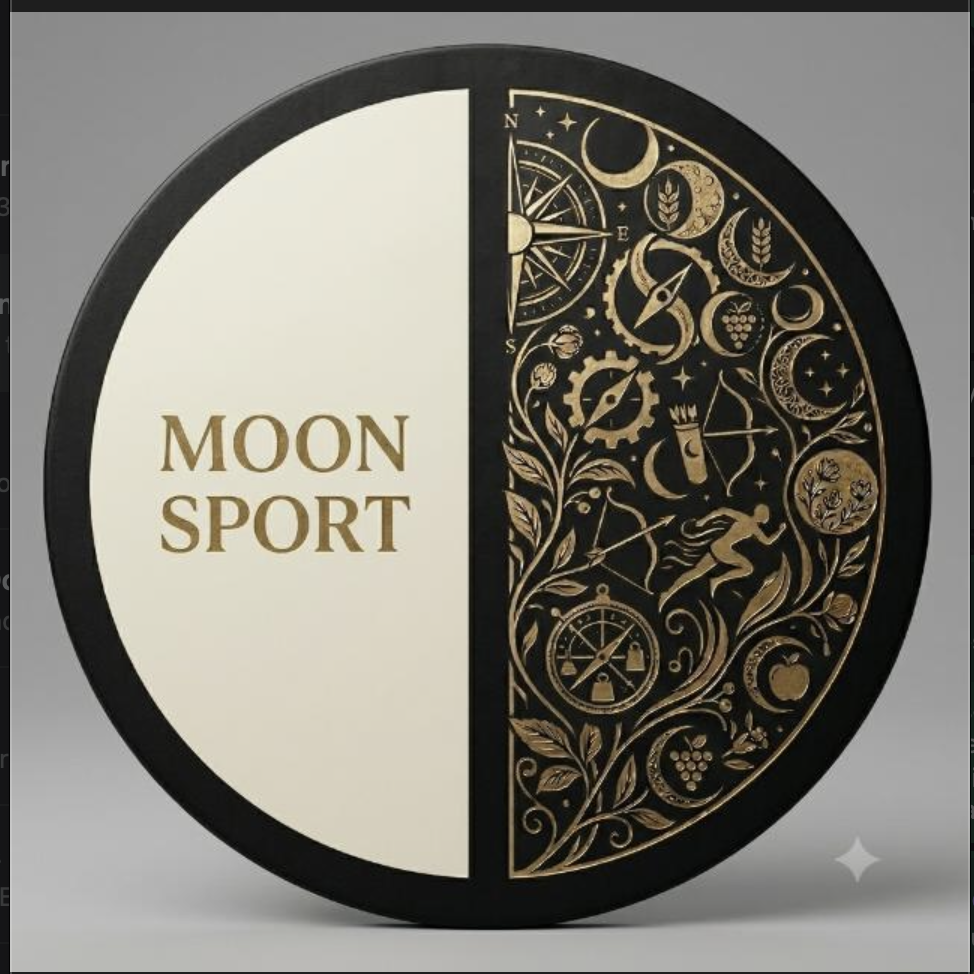
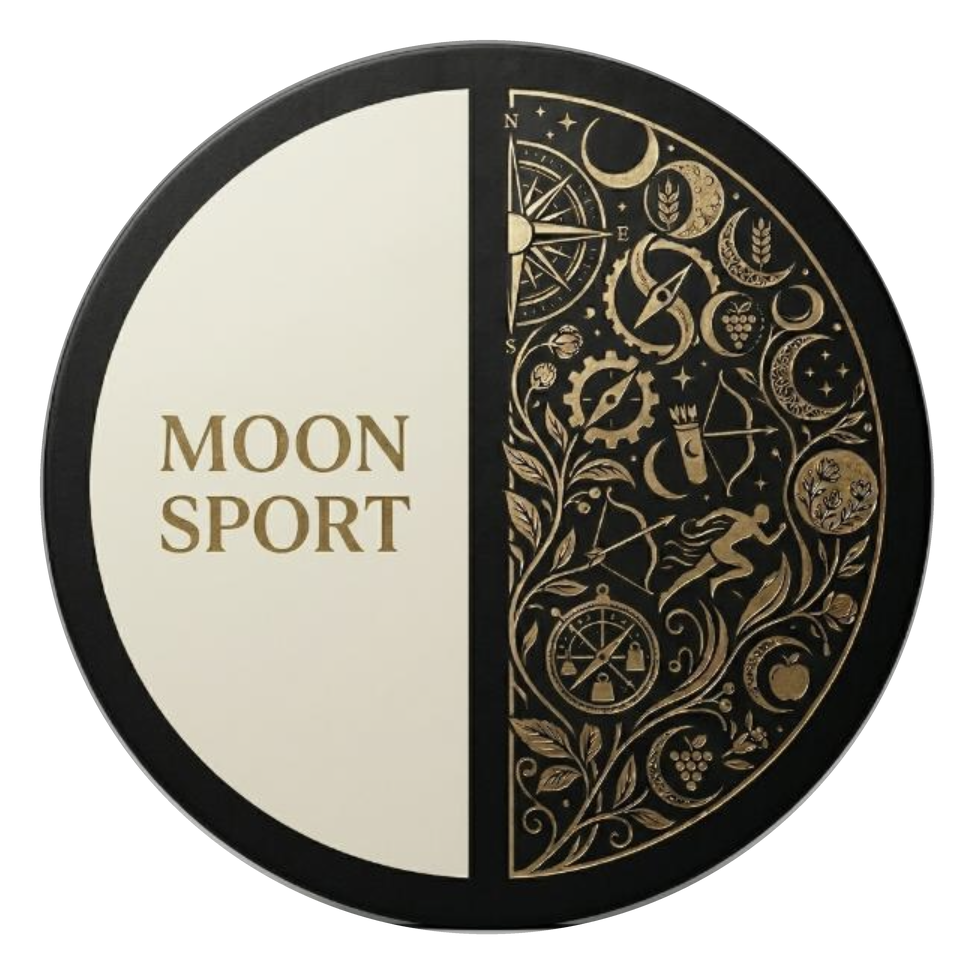
Quitar el fondo gris del ícono (queda solo la moneda, transparente)

diff --git a/vite.config.ts b/vite.config.ts
@@ -12,7 +12,7 @@ export default defineConfig({
       manifest: {
         name: 'Moon Sport',
         short_name: 'Moon Sport',
-        description: 'Inventario, ventas y gastos de Moon Sport',
+        description: 'Inventario, ventas y apartados de Moon Sport',
         theme_color: '#0E0E10',
         background_color: '#0E0E10',
         display: 'standalone',
@@ -21,7 +21,7 @@ export default defineConfig({
             src: '/icon.png',
             sizes: '1024x1024',
             type: 'image/png',
-            purpose: 'any maskable',
+            purpose: 'any',
           },
         ],
       },
